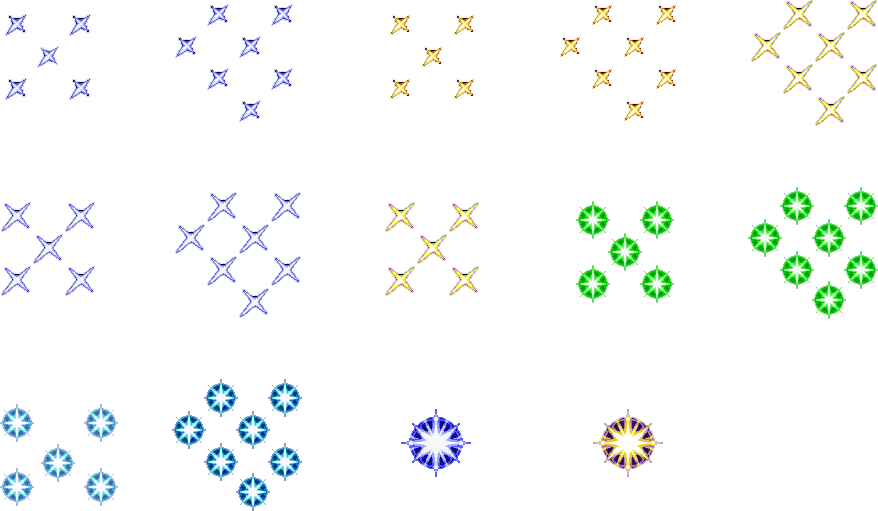
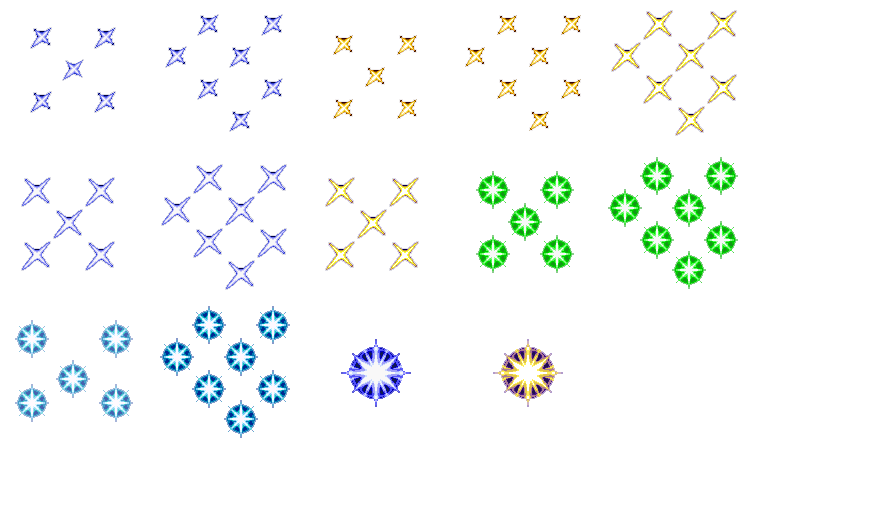
add MagicAttacks and animations/sounds for variations

diff --git a/src/components/MagicAttacks/Ice/index.js b/src/components/MagicAttacks/Ice/index.js
@@ -1,0 +1,50 @@
+import styled, { keyframes } from 'styled-components'
+
+const percentage = (number) => `-${number * 23}%`
+
+const move = keyframes`
+  0% { transform: translate(0, 23px); opacity: 0.8; }
+  2% { transform: translate(-3px, 18px); width: 540% }
+  4% { transform: translate(-7px, 13px); width: 580% }
+  6% { transform: translate(-11px, 8px); width: 620% }
+  8% { transform: translate(-14px, 2px); width: 660% }
+  10% { transform: translate(-18px, -1px); width: 700% }
+  12% { transform: translate(-22px, -6px); width: 740% }
+  14% { transform: translate(-23px, -7px); width: 760%; }
+  20% { transform: translate(${percentage(2)}, 23px); width: 500%; }
+  30% { transform: translate(${percentage(3)}, -4px); }
+  40% { transform: translate(${percentage(0)}, -115px); }
+  60% { transform: translate(-22%, -115px); }
+  80% { transform: translate(${percentage(2)}, -115px); } */
+`
+
+const IceStyled = styled.div`
+  animation-name: ${move};
+  animation-duration: 3s;
+  animation-timing-function: steps(1);
+  animation-iteration-count: 1;
+  background-image: url(/img/ice.png);
+  background-repeat: no-repeat;
+  background-size: 100%;
+  position: absolute;
+  opacity: 0;
+  height: 220%;
+  width: 500%;
+  transform: translate(0px, 23px);
+`
+
+const ContainerStyled = styled.div`
+  margin-top: -20px;
+  overflow: hidden;
+  position: relative;
+  height: 100px;
+  width: 100px;
+`
+
+const Ice = () => (
+  <ContainerStyled>
+    <IceStyled />
+  </ContainerStyled>
+)
+
+export default Ice

diff --git a/src/components/Heroes/Hero/index.js b/src/components/Heroes/Hero/index.js
@@ -1,17 +1,13 @@
-import React, { memo, useEffect, useState } from 'react'
+// import classnames from 'classnames'
 import { useQuery } from '@apollo/client'
 import PropTypes from 'prop-types'
-// import classnames from 'classnames'
+import React, { memo, useEffect, useState } from 'react'
 import { GET_WHOSE_TURN } from '../../../operations/queries/getWhoseTurn'
-import { HeroStyled, TurnStyled } from './styled'
-import {
-  cureMagicFX,
-  fireMagicFX,
-  heroAttackFX,
-  lightningMagicFX,
-} from '../../../helpers/soundEffects'
-import DamageDisplay from './DamageDisplay'
 import { getCharacterByBattleName } from '../../../operations/queries/getCharacters'
+import { HeroStyled, TurnStyled } from './styled'
+import DamageDisplay from './DamageDisplay'
+import MagicAttacks from '../../MagicAttacks'
+
 // import Victory from './Victory';
 // import setTimeoutHelper from '../helpers/time-out';
 // import { damageCalculation, getBaseDamage } from '../helpers/damage-calc';
@@ -141,10 +137,17 @@ const Hero = ({ hero, position }) => {
     attacking,
     name: hero.classes,
   }
+
+  const magicAttack = {
+    target: 'hero4',
+    type: 'cure',
+  }
+
   return (
     <HeroStyled id={battleName} {...heroInfo}>
       {attacking && <TurnStyled />}
       <DamageDisplay amount={hero.currentHp} isDamage={true} position={position} />
+      {magicAttack?.target === battleName && <MagicAttacks magicAttack={magicAttack} />}
     </HeroStyled>
   )
 }

diff --git a/src/components/MagicAttacks/Lightning/index.js b/src/components/MagicAttacks/Lightning/index.js
@@ -1,0 +1,59 @@
+import styled, { keyframes } from 'styled-components'
+import { random } from 'lodash'
+
+const strike = () => `margin-left: ${random(-20, 20)}px; opacity: ${random(0.1, 1)};`
+
+const move = keyframes`
+  0% { ${strike()} }
+  25% { ${strike()} }
+  50% { margin-left: 0; opacity: ${random(0.1, 1)}; }
+  75% { ${strike()} }
+  100% { ${strike()} }
+`
+const flash = () => `opacity: ${random(0.7, 1)}; filter: brightness(${random(0.5, 1.6)});`
+
+const fade = keyframes`
+  0% { ${flash()} }
+  50% { ${flash()} }
+  100% { ${flash()} }
+`
+
+const LightningStyled = styled.div`
+  animation: ${move} 1.5s linear 2;
+  background-image: url('/img/lightning.png');
+  background-size: cover;
+  height: 100px;
+  margin-left: 20px;
+  margin-top: -20px;
+  opacity: 0;
+  position: absolute;
+  width: 80px;
+  z-index: -1;
+`
+
+const CloudStyled = styled.div`
+  animation: ${fade} 1s linear 3;
+  background-image: url('/img/dark-cloud.png');
+  background-size: cover;
+  filter: brightness(0.3);
+  height: 50px;
+  margin-top: -40px;
+  opacity: 0;
+  width: 130px;
+  z-index: 1;
+`
+
+const ContainerStyled = styled.div`
+  margin-left: -10px;
+`
+
+const Lightning = () => {
+  return (
+    <ContainerStyled>
+      <CloudStyled />
+      <LightningStyled />
+    </ContainerStyled>
+  )
+}
+
+export default Lightning

diff --git a/src/components/Enemies/Enemy/index.js b/src/components/Enemies/Enemy/index.js
@@ -10,6 +10,7 @@ import { orderMutations } from '../../../operations/mutations'
 import { useDelayedEffect, useTimer } from '../../../hooks'
 import completeAction from '../../../helpers/completeAction'
 import CountDownTimer from '../../../helpers/CountDownTimer'
+import MagicAttacks from '../../MagicAttacks'
 
 const Enemy = ({ enemy, position }) => {
   const whoseTurnQuery = useQuery(GET_WHOSE_TURN)
@@ -61,6 +62,12 @@ const Enemy = ({ enemy, position }) => {
     [target]
   )
 
+  // simulate magic selection, add magicAttack state change which includes type and target
+  const magicAttack = {
+    type: 'lightning',
+    target: 'enemy1',
+  }
+
   return (
     <div>
       <EnemyDisplayStyled
@@ -68,6 +75,7 @@ const Enemy = ({ enemy, position }) => {
         id={battleName}
         target={target?.battleName}
       >
+        {magicAttack?.target === battleName && <MagicAttacks magicAttack={magicAttack} />}
         {/* This is just to show that the damage update is working */}
         <div style={{ position: 'absolute', color: 'red' }}>{enemy.currentHp}</div>
         {attacking && <TurnStyled />}

diff --git a/src/components/MagicAttacks/index.js b/src/components/MagicAttacks/index.js
@@ -1,0 +1,38 @@
+import PropTypes from 'prop-types'
+import { useEffect } from 'react'
+import CureMagic from './Cure'
+import FireMagic from './Fire'
+import IceMagic from './Ice'
+import LightningMagic from './Lightning'
+import { cureMagicFX, fireMagicFX, lightningMagicFX } from '../../helpers/soundEffects'
+
+const MagicAttacks = ({ magicAttack }) => {
+  useEffect(() => {
+    // reset the magic here!
+  }, [])
+
+  if (magicAttack?.type === 'cure') {
+    cureMagicFX()
+    return <CureMagic />
+  }
+  if (magicAttack?.type === 'fire') {
+    fireMagicFX()
+    return <FireMagic />
+  }
+  if (magicAttack?.type === 'ice') {
+    cureMagicFX()
+    return <IceMagic />
+  }
+  if (magicAttack?.type === 'lightning') {
+    lightningMagicFX()
+    return <LightningMagic />
+  }
+
+  return null
+}
+
+MagicAttacks.propTypes = {
+  magicAttack: PropTypes.shape({ type: PropTypes.string.isRequired }).isRequired,
+}
+
+export default MagicAttacks

diff --git a/src/components/MagicAttacks/Cure/index.js b/src/components/MagicAttacks/Cure/index.js
@@ -1,0 +1,36 @@
+import styled, { keyframes } from 'styled-components'
+import { useEffect, useState } from 'react'
+
+const move = keyframes`
+  0% { margin-top: -20px; opacity: 1; }
+  25% { margin-top: -15px; }
+  50% { margin-top: -10px; }
+  75% { margin-top: -5px; opacity: 0.6; }
+  100% { margin-top: 0px; opacity: 0.4;}
+`
+
+const CureStyled = styled.div`
+  animation: ${move} 3s linear 1;
+  background-image: url('/img/cure.png');
+  background-size: 500px;
+  opacity: 0;
+  height: 80px;
+  width: 80px;
+  margin-top: -20px;
+  background-position-x: ${(props) => (props.secondPosition ? -95 : 0)}px;
+  background-position-y: 0px;
+`
+
+const Cure = () => {
+  const [secondPosition, setSecondPosition] = useState(false)
+
+  useEffect(() => {
+    setTimeout(() => {
+      setSecondPosition(true)
+    }, 1500)
+  }, [])
+
+  return <CureStyled secondPosition={secondPosition} />
+}
+
+export default Cure

diff --git a/src/components/MagicAttacks/Fire/index.js b/src/components/MagicAttacks/Fire/index.js
@@ -1,0 +1,24 @@
+import styled, { keyframes } from 'styled-components'
+import { random } from 'lodash'
+
+const move = keyframes`
+  0% { margin-left: 20px; opacity: ${random(0.1, 0.8)}; }
+  25% { margin-left: 0px; }
+  50% { margin-left: -20px; opacity: ${random(0.1, 0.8)}; }
+  75% { margin-left: 0px; }
+  100% { margin-left: 20px; opacity: ${random(0.1, 0.8)}; }
+`
+
+const FireStyled = styled.div`
+  background-image: url('/img/fire.png');
+  background-size: cover;
+  opacity: 0;
+  height: 100px;
+  width: 100px;
+  margin-left: ${(props) => (props.move ? -10 : 20)}px;
+  animation: ${move} 1.5s linear 2;
+`
+
+const Fire = () => <FireStyled />
+
+export default Fire

diff --git a/src/helpers/completeAction.js b/src/helpers/completeAction.js
@@ -120,8 +120,8 @@ function reviveTarget (target, targeter, typeOfMagic) {
 }
 
 function itemReviveTarget (target, item) {
-  target.currentHp += itemHpCalculation(target.maxHp, item.revive)
   target.killed = false
+  target.currentHp += itemHpCalculation(target.maxHp, item.revive)
 
   const clonedItem = clone(item)
   clonedItem.amount -= 1
